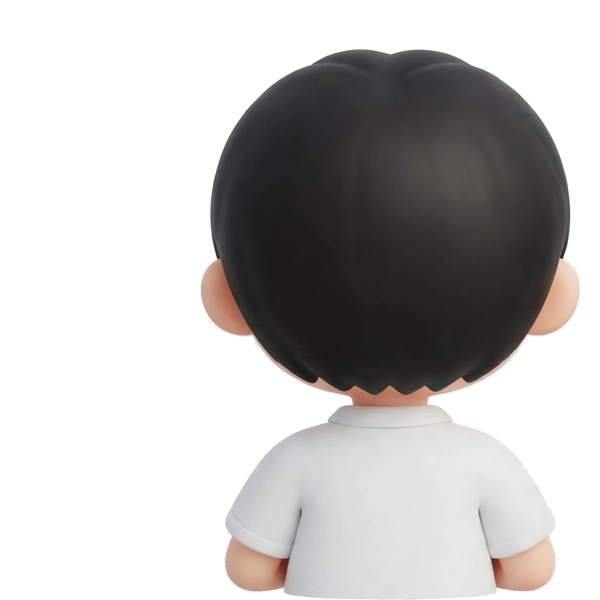
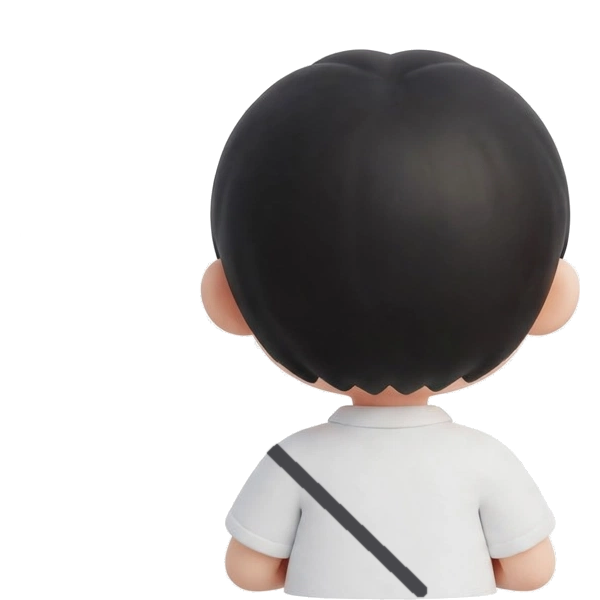
Lop hoc chu (nv2-lop-hoc-v18): LH-V2 nhan vat giong anh mau
- hoc-sinh-sau-1..6: them day deo cheo tren ao trang (nhu anh mau),
  chi ve len vung ao xam-trang, khong ve len toc/da/mu; sau-6 toc
  vang -> toc hong (anh mau co nhieu hs toc hong). Giu 600x600 PNG
  trong suot, giu ten file, khong doi code/preload.
- people.js SEATS v18: w 48/56/64/74 -> 68/74/87/96 (dau hs
  ~40/44/51/57px o khung 720, gan anh mau 40/48/55/63px; truoc chi
  ~70%). Gioi han tren do chip hang tren (dau hang duoi cham dung
  mep duoi chip hang tren). y/chipY giu nguyen (dinh ban v17).
  Editor ?demo=1&seats=1 giu nguyen.
- co-ngan.png KHONG doi: vi tri/kich thuoc da khop anh mau (cao
  295px = 23% khung, x 13%, chan 46%), tu the/co do/the ten khop.
- Kiem chung: node --check OK; demo ?demo=1&break=1 720x1280,
  14 hs, day hinh cham dinh ban 0 lech, 0 console error, editor
  hien du 20 ghe (w ghe 0 = 68).

Changed region(s): [[0.45, 0.72, 0.72, 1.0]]

diff --git a/Games/lop-hoc-chu/js/people.js b/Games/lop-hoc-chu/js/people.js
@@ -40,29 +40,36 @@ const TEACHER_IMG = 'img/co-ngan.png';
 const STUDENT_IMGS = ['img/hoc-sinh-sau-1.png', 'img/hoc-sinh-sau-2.png', 'img/hoc-sinh-sau-3.png', 'img/hoc-sinh-sau-4.png', 'img/hoc-sinh-sau-5.png', 'img/hoc-sinh-sau-6.png'];
 const FRONT_IMGS = ['img/hoc-sinh-1.png', 'img/hoc-sinh-2.png', 'img/hoc-sinh-3.png', 'img/hoc-sinh-4.png', 'img/hoc-sinh-5.png', 'img/hoc-sinh-6.png'];
 
-/* SEATS v16d (2026-11-06 tối, user chốt bỏ vụ cắt mép bàn + tự canh
-   tọa độ): 20 ghế (4 hàng × 5). x/y = vị trí phần tử (%, học sinh neo
+/* SEATS v18 (LH-V2, 2026-11-06 tối — to theo ảnh mẫu, giữ editor
+   ?seats=1): 20 ghế (4 hàng × 5). x/y = vị trí phần tử (%, học sinh neo
    translate(-50%,-100%) nên ĐÁY hình = y, đặt y đúng đỉnh bàn thì ngực
    cắt chạm mép bàn như ảnh họ — không dải mặt bàn, không mặt nạ, không
    cắt nào nữa. w = rộng ảnh (px); ảnh học sinh mới 600×600 (tỉ lệ 1.0,
-   đầu + vai cắt ngang ngực), w 48/56/64/74 → thân hiện 48/56/64/74px.
+   đầu + vai cắt ngang ngực).
+   w CŨ 48/56/64/74 cho đầu chỉ ~28/33/38/44px — đo từ ảnh mẫu: đầu
+   học sinh ~40/48/55/63px ở khung 720 (đầu ≈ 59% bề rộng ảnh sau-lưng).
+   w MỚI 68/74/87/96 cho đầu ~40/44/51/57px (≈90–100% ảnh mẫu).
+   Giới hạn trên do chip hàng trên: đầu hàng dưới không được che chip
+   hàng trên (chip cao ~24px, chipY = y + 0,3%) — w2 ≤ 74, w3 ≤ 87,
+   w4 ≤ 96 (đầu hàng dưới chạm đúng mép dưới chip hàng trên).
+   y = đỉnh bàn ĐO TỪ ẢNH NỀN v17 (tia nắng): 48,7/56,2/64,6/73,7 —
+   đã kiểm chứng đáy hình chạm đỉnh bàn 0 lệch (verify-v17).
    chipY = top (%) của chip tên + điểm (ngay dưới mép bàn, trên mặt
-   trước bàn, như ảnh họ). y = đỉnh bàn ĐO TỪ ẢNH NỀN v17 (tia nắng):
-   48,7/56,2/64,6/73,7 (bàn dịch lên 0,3–1% so với v16). Tọa độ từng ghế
-   user tự canh bằng ?seats=1 (xem P.setEditMode ở cuối file). */
+   trước bàn, như v17 chốt). Tọa độ từng ghế user tự canh bằng
+   ?seats=1 (xem P.setEditMode ở cuối file). */
 const SEATS = [
-  { x: 10, y: 48.7, w: 48, chipY: 49.0 }, { x: 30, y: 48.7, w: 48, chipY: 49.0 },
-  { x: 50, y: 48.7, w: 48, chipY: 49.0 }, { x: 70, y: 48.7, w: 48, chipY: 49.0 },
-  { x: 90, y: 48.7, w: 48, chipY: 49.0 },
-  { x: 10, y: 56.2, w: 56, chipY: 56.5 }, { x: 30, y: 56.2, w: 56, chipY: 56.5 },
-  { x: 50, y: 56.2, w: 56, chipY: 56.5 }, { x: 70, y: 56.2, w: 56, chipY: 56.5 },
-  { x: 90, y: 56.2, w: 56, chipY: 56.5 },
-  { x: 10, y: 64.6, w: 64, chipY: 64.9 }, { x: 30, y: 64.6, w: 64, chipY: 64.9 },
-  { x: 50, y: 64.6, w: 64, chipY: 64.9 }, { x: 70, y: 64.6, w: 64, chipY: 64.9 },
-  { x: 90, y: 64.6, w: 64, chipY: 64.9 },
-  { x: 10, y: 73.7, w: 74, chipY: 74.0 }, { x: 30, y: 73.7, w: 74, chipY: 74.0 },
-  { x: 50, y: 73.7, w: 74, chipY: 74.0 }, { x: 70, y: 73.7, w: 74, chipY: 74.0 },
-  { x: 90, y: 73.7, w: 74, chipY: 74.0 },
+  { x: 10, y: 48.7, w: 68, chipY: 49.0 }, { x: 30, y: 48.7, w: 68, chipY: 49.0 },
+  { x: 50, y: 48.7, w: 68, chipY: 49.0 }, { x: 70, y: 48.7, w: 68, chipY: 49.0 },
+  { x: 90, y: 48.7, w: 68, chipY: 49.0 },
+  { x: 10, y: 56.2, w: 74, chipY: 56.5 }, { x: 30, y: 56.2, w: 74, chipY: 56.5 },
+  { x: 50, y: 56.2, w: 74, chipY: 56.5 }, { x: 70, y: 56.2, w: 74, chipY: 56.5 },
+  { x: 90, y: 56.2, w: 74, chipY: 56.5 },
+  { x: 10, y: 64.6, w: 87, chipY: 64.9 }, { x: 30, y: 64.6, w: 87, chipY: 64.9 },
+  { x: 50, y: 64.6, w: 87, chipY: 64.9 }, { x: 70, y: 64.6, w: 87, chipY: 64.9 },
+  { x: 90, y: 64.6, w: 87, chipY: 64.9 },
+  { x: 10, y: 73.7, w: 96, chipY: 74.0 }, { x: 30, y: 73.7, w: 96, chipY: 74.0 },
+  { x: 50, y: 73.7, w: 96, chipY: 74.0 }, { x: 70, y: 73.7, w: 96, chipY: 74.0 },
+  { x: 90, y: 73.7, w: 96, chipY: 74.0 },
 ];
 /* Ghi đè tọa độ ghế do user tự canh (?seats=1): lưu localStorage, nạp
    khi mở game, ưu tiên hơn SEATS mặc định. */
